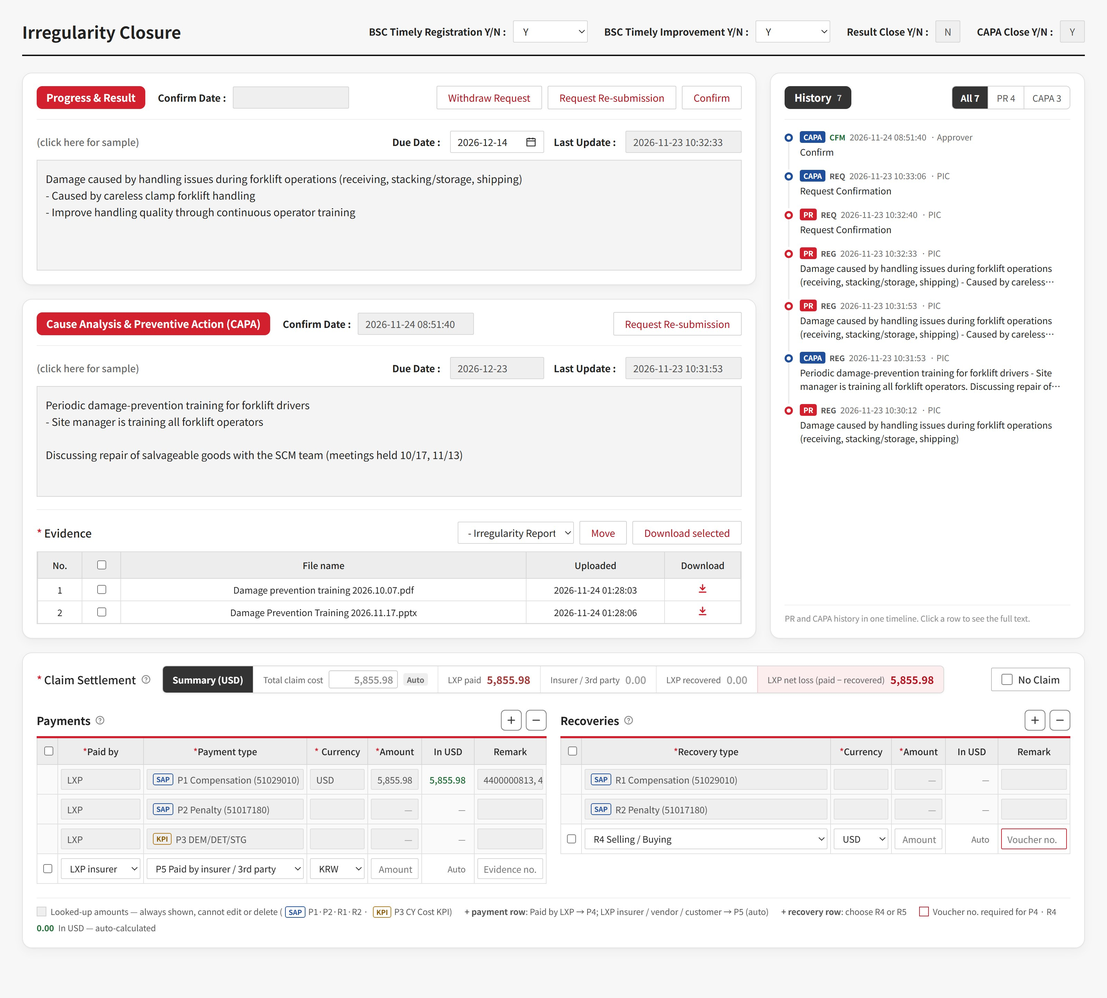
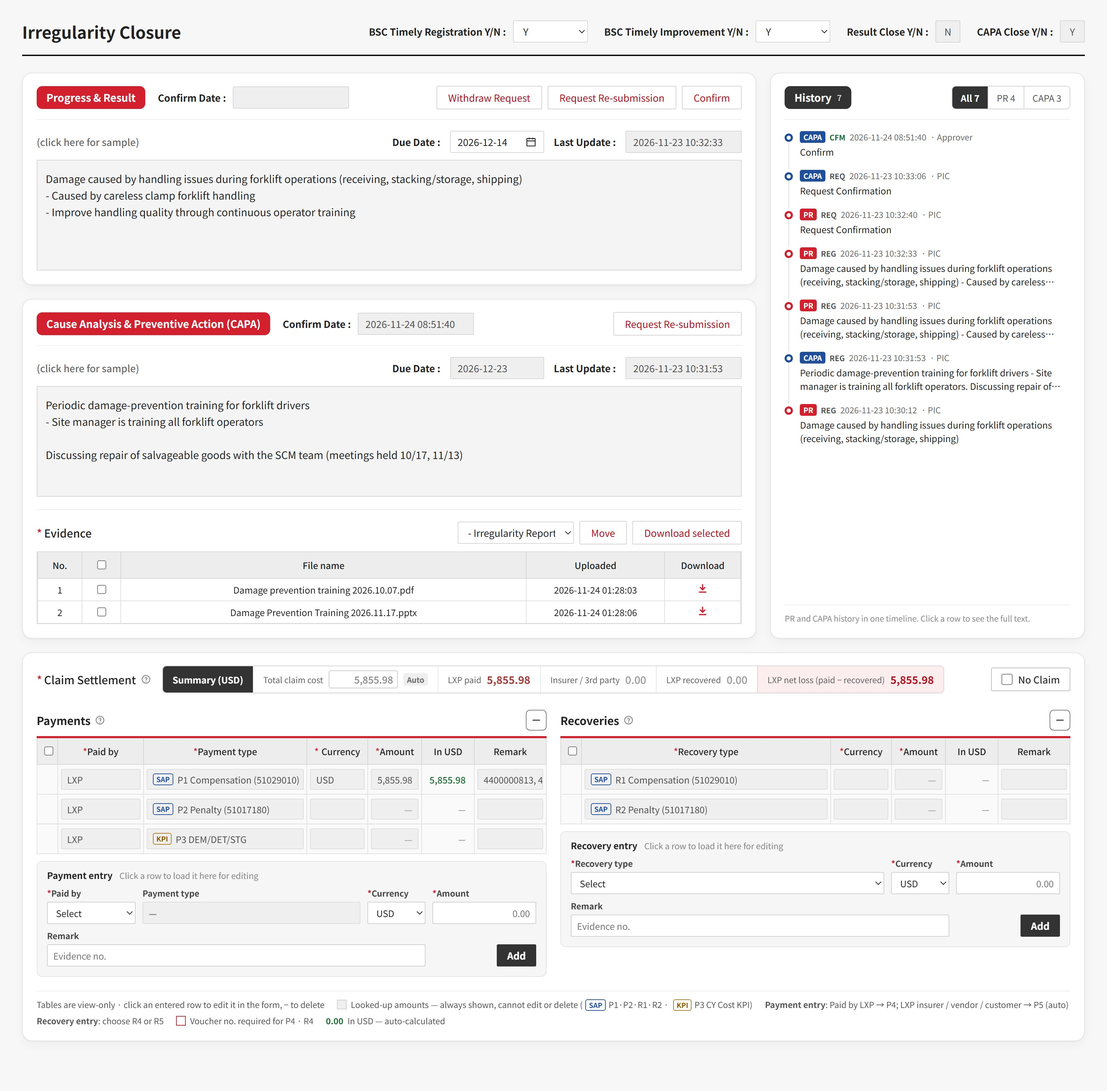
QMS sidebar mockup: pay/recovery entry forms under the grids

diff --git a/share/qms-claim-closure-sidebar.html b/share/qms-claim-closure-sidebar.html
@@ -124,13 +124,34 @@ a{color:#B3121F}a:hover{color:#7E0C16}
 .ti.open .tx{display:block}
 .ti[hidden]{display:none}
 .sidenote{margin:10px 0 0;padding-top:10px;border-top:1px solid #EEEEEE;font-size:11.5px;color:#8A8A8A}
+.cform{margin-top:10px;background:#F6F6F6;border:1px solid #E3E3E3;border-radius:8px;padding:10px 14px 14px}
+.cf-h{display:flex;flex-wrap:wrap;align-items:baseline;gap:4px 10px;font-size:13px;margin-bottom:8px;color:#222}
+.cf-note{font-size:12px;color:#8A8A8A}.cf-mode{font-size:12px;color:#1F4E9A;font-weight:700}
+.cf-g{display:grid;gap:8px 10px;align-items:end}
+.cf-g.pay{grid-template-columns:128px minmax(0,1fr) 84px 150px}
+.cf-g.rec{grid-template-columns:minmax(0,1fr) 84px 150px}
+.cf{display:flex;flex-direction:column;gap:4px;min-width:0;font-size:12px;font-weight:700;color:#444}
+.cf select,.cf input{height:32px;width:100%;border:1px solid #CFCFCF;border-radius:2px;background:#fff;font:inherit;font-size:13px;font-weight:400;color:#222;padding:0 8px;box-sizing:border-box}
+.cf input[data-f="amt"]{text-align:right;font-variant-numeric:tabular-nums}
+.cf .rocell{height:32px;font-weight:400}
+.cf input.need{border-color:#D3202F}
+.cf .bad{outline:2px solid #D3202F;outline-offset:-1px}
+.cf.wide{grid-column:1 / -2}
+.cf-b{display:flex;justify-content:flex-end;gap:6px}
+.cf-b .btn{height:32px;padding:0 14px}
+.btn.dark{background:#333;border-color:#333;color:#fff;font-weight:700}
+.cf-err{margin:8px 0 0;font-size:12px;color:#B3121F}
+.uc{height:30px;display:flex;align-items:center;padding:0 8px;font-size:13px;overflow:hidden;white-space:nowrap;text-overflow:ellipsis}
+.uc.num{justify-content:flex-end;font-variant-numeric:tabular-nums}
+.grid tr.ur{cursor:pointer}.grid tr.ur:hover td{background:#FFF7F7}.grid tr.ur.sel td{background:#FDECEE}
+@media (max-width:640px){.cf-g.pay,.cf-g.rec{grid-template-columns:minmax(0,1fr) minmax(0,1fr)}.cf.wide,.cf-b{grid-column:1 / -1}}
 @media (max-width:1100px){.sbl,.flow.r64 .sbl{grid-template-columns:minmax(0,1fr)}.tl{flex:none;height:auto;min-height:0;max-height:420px}}
 
 </style>
 </head>
 <body>
 <div class="lab-bar"><b>QMS 사고 비용 정산 설계안</b><span>배치 검토용 목업 · 이력 필터만 동작</span><a href="/share/qms-claim">데이터 설계</a><a href="/share/qms-claim-screens">입력 화면 시안</a><a href="/share/qms-claim-closure">Closure 화면 개선안</a><a href="/share/qms-claim-closure-layout">좌우 배치안</a><a href="/share/qms-claim-closure-sidebar" aria-current="page">이력 사이드바안</a><a href="/share/qms-claim-closure-options">배치 제안</a><a href="#en" lang="en">English</a></div>
-<div class="part"><h2 class="big">이력 사이드바안 — 배치 제안 C</h2><p><b>사이드바 레이아웃</b>: 왼쪽 본문은 PR → CAPA → 이행 증빙, 오른쪽 사이드바는 PR · CAPA 이력을 시간순으로 모은 통합 이력 (PR / CAPA 필터). 구역마다 둥근 상자로 나누고, 본문 : 이력 폭은 7 : 3 (6 : 4로 바꿔 볼 수 있음). 이력 상자는 본문 높이에 맞춰 늘어나고 넘치면 안에서 스크롤. 입력 칸과 이력이 나란히 있지 않으니 높이를 맞출 필요가 없고, 이행 증빙이 늘어도 구조가 깨지지 않습니다. <b>Claim Settlement는 전체 폭</b>으로 빼서 지불·회수 표를 한 줄에 놓고, 맨 아래(기본)와 맨 위 중 골라 볼 수 있습니다.</p>
+<div class="part"><h2 class="big">이력 사이드바안 — 배치 제안 C</h2><p><b>사이드바 레이아웃</b>: 왼쪽 본문은 PR → CAPA → 이행 증빙, 오른쪽 사이드바는 PR · CAPA 이력을 시간순으로 모은 통합 이력 (PR / CAPA 필터). 구역마다 둥근 상자로 나누고, 본문 : 이력 폭은 7 : 3 (6 : 4로 바꿔 볼 수 있음). 이력 상자는 본문 높이에 맞춰 늘어나고 넘치면 안에서 스크롤. 입력 칸과 이력이 나란히 있지 않으니 높이를 맞출 필요가 없고, 이행 증빙이 늘어도 구조가 깨지지 않습니다. <b>Claim Settlement는 전체 폭</b>으로 빼서 지불·회수 표를 한 줄에 놓고, 맨 아래(기본)와 맨 위 중 골라 볼 수 있습니다. <b>지불·회수 표는 조회 전용</b>이고, 표 아래 입력폼(기존 Actual Loss Cost처럼 칸 입력, USD 칸 없음)으로 추가합니다. 입력한 행을 누르면 폼으로 불러와 수정, − 로 삭제. 요약 금액은 예시 환율로 다시 계산됩니다.</p>
 <div class="pos" role="group" aria-label="본문과 이력 비율" data-cls="r64"><span>본문 : 이력</span><span class="segb"><button type="button" data-on="0" aria-pressed="true">7 : 3</button><button type="button" data-on="1" aria-pressed="false">6 : 4</button></span></div><div class="pos" role="group" aria-label="Claim Settlement 위치" data-cls="cs-top"><span>Claim Settlement 위치</span><span class="segb"><button type="button" data-pos="bottom" data-on="0" aria-pressed="true">맨 아래</button><button type="button" data-pos="top" data-on="1" aria-pressed="false">맨 위</button></span></div>
 <div class="dl"><a href="/share/files/qms-claim-closure-sidebar.jpg" download><svg width="14" height="14" viewBox="0 0 24 24" fill="none" stroke="currentColor" stroke-width="2" aria-hidden="true"><path d="M12 3v12m0 0-5-5m5 5 5-5M4 19h16"/></svg>JPG (맨 아래)</a><a href="/share/files/qms-claim-closure-sidebar-top.jpg" download><svg width="14" height="14" viewBox="0 0 24 24" fill="none" stroke="currentColor" stroke-width="2" aria-hidden="true"><path d="M12 3v12m0 0-5-5m5 5 5-5M4 19h16"/></svg>JPG (맨 위)</a><a href="/share/files/qms-claim-closure-sidebar-64.jpg" download><svg width="14" height="14" viewBox="0 0 24 24" fill="none" stroke="currentColor" stroke-width="2" aria-hidden="true"><path d="M12 3v12m0 0-5-5m5 5 5-5M4 19h16"/></svg>JPG (6 : 4)</a></div></div>
 <div style="box-sizing: border-box; width: 100%; max-width: 1600px; margin: 0 auto; padding: 28px 32px 56px; font-family: 'Noto Sans KR', 'Malgun Gothic', sans-serif; color: #222; background: #F7F7F7;">
@@ -235,12 +256,11 @@ SCM팀 통한 수리 가능 제품 양품화 협의 (10/17, 11/13 협의 진행)
 </div>
 <div style="display: flex; align-items: center; gap: 6px; flex: none;">
 
-<button class="ibtn" type="button" aria-label="지불 행 추가"><svg width="16" height="16" viewBox="0 0 24 24" fill="none" stroke="currentColor" stroke-width="2.4" stroke-linecap="round" aria-hidden="true"><path d="M12 5v14M5 12h14"></path></svg></button>
 <button class="ibtn" type="button" aria-label="선택한 지불 행 삭제"><svg width="16" height="16" viewBox="0 0 24 24" fill="none" stroke="currentColor" stroke-width="2.4" stroke-linecap="round" aria-hidden="true"><path d="M5 12h14"></path></svg></button>
 </div>
 </div>
 <div style="overflow-x: auto;">
-<table class="grid">
+<table class="grid" data-k="pay">
 <colgroup><col style="width: 30px;"><col style="width: 110px;"><col><col style="width: 80px;"><col style="width: 84px;"><col style="width: 84px;"><col style="width: 112px;"></colgroup>
 <thead><tr>
 <th><input type="checkbox" aria-label="지불 행 전체 선택"></th>
@@ -279,18 +299,10 @@ SCM팀 통한 수리 가능 제품 양품화 협의 (10/17, 11/13 협의 진행)
 <td><div class="auto">—</div></td>
 <td><div class="rocell"></div></td>
 </tr>
-<tr>
-<td style="text-align: center;"><input type="checkbox" aria-label="4행 선택"></td>
-<td><select class="cell" aria-label="지불주체"><option>당사 보험사</option><option>당사</option><option>협력사</option><option>고객사</option></select></td>
-<td><select class="cell" aria-label="지불방법"><option>P5 보험사·제3자 지불</option></select></td>
-<td><select class="cell" aria-label="Currency"><option>KRW</option><option>USD</option><option>EUR</option></select></td>
-<td><input class="cell" style="text-align: right;" placeholder="금액 입력" aria-label="금액"></td>
-<td><div class="auto">자동 계산</div></td>
-<td><input class="cell" placeholder="증빙번호 등" aria-label="Remark"></td>
-</tr>
 </tbody>
 </table>
 </div>
+<div class="cform" data-k="pay" role="group" aria-label="지불 입력"><div class="cf-h"><b>지불 입력</b><span class="cf-note">행을 누르면 여기로 불러와 수정</span><span class="cf-mode" aria-live="polite"></span></div><div class="cf-g pay"><label class="cf"><span><span class="req">*</span>지불주체</span><select data-f="party"><option value="">선택</option><option value="LXP">당사</option><option value="INS">당사 보험사</option><option value="VEN">협력사</option><option value="CUS">고객사</option></select></label><div class="cf"><span>지불방법</span><div class="rocell" data-f="type">—</div></div><label class="cf"><span><span class="req">*</span>Currency</span><select data-f="cur"><option>USD</option><option>KRW</option><option>EUR</option></select></label><label class="cf"><span><span class="req">*</span>금액</span><input data-f="amt" inputmode="decimal" placeholder="0.00"></label><label class="cf wide"><span>Remark</span><input data-f="remark" placeholder="증빙번호 등"></label><div class="cf-b"><button class="btn cf-cancel" type="button" hidden>취소</button><button class="btn dark cf-add" type="button">추가</button></div></div><p class="cf-err" role="alert" hidden></p></div>
 </div>
 
 <div style="min-width: 0;">
@@ -300,12 +312,11 @@ SCM팀 통한 수리 가능 제품 양품화 협의 (10/17, 11/13 협의 진행)
 <span class="qtip" tabindex="0" aria-label="회수내역 안내"><svg width="15" height="15" viewBox="0 0 24 24" fill="none" stroke="#8A8A8A" stroke-width="2" stroke-linecap="round" aria-hidden="true"><circle cx="12" cy="12" r="9"></circle><path d="M9.6 9.3a2.5 2.5 0 0 1 4.8 1c0 1.7-2.4 2.1-2.4 3.7"></path><path d="M12 17.2v.3"></path></svg><span class="tipbox" role="tooltip">R1·R2는 SAP에서 조회한 금액만 보여 줍니다. 그 밖의 회수는 + 로 추가합니다 (R4 · R5).</span></span>
 </div>
 <div style="display: flex; align-items: center; gap: 6px; flex: none;">
-<button class="ibtn" type="button" aria-label="회수 행 추가"><svg width="16" height="16" viewBox="0 0 24 24" fill="none" stroke="currentColor" stroke-width="2.4" stroke-linecap="round" aria-hidden="true"><path d="M12 5v14M5 12h14"></path></svg></button>
 <button class="ibtn" type="button" aria-label="선택한 회수 행 삭제"><svg width="16" height="16" viewBox="0 0 24 24" fill="none" stroke="currentColor" stroke-width="2.4" stroke-linecap="round" aria-hidden="true"><path d="M5 12h14"></path></svg></button>
 </div>
 </div>
 <div style="overflow-x: auto;">
-<table class="grid">
+<table class="grid" data-k="rec">
 <colgroup><col style="width: 30px;"><col><col style="width: 80px;"><col style="width: 84px;"><col style="width: 84px;"><col style="width: 112px;"></colgroup>
 <thead><tr>
 <th><input type="checkbox" aria-label="회수 행 전체 선택"></th>
@@ -332,23 +343,17 @@ SCM팀 통한 수리 가능 제품 양품화 협의 (10/17, 11/13 협의 진행)
 <td><div class="auto">—</div></td>
 <td><div class="rocell"></div></td>
 </tr>
-<tr>
-<td style="text-align: center;"><input type="checkbox" aria-label="3행 선택"></td>
-<td><select class="cell" aria-label="회수방법"><option>R4 Selling / Buying</option><option>R5 기타</option></select></td>
-<td><select class="cell" aria-label="Currency"><option>USD</option><option>KRW</option><option>EUR</option></select></td>
-<td><input class="cell" style="text-align: right;" placeholder="금액 입력" aria-label="금액"></td>
-<td><div class="auto">자동 계산</div></td>
-<td><input class="cell" style="border-color: #D3202F;" placeholder="전표번호 (필수)" aria-label="Remark 전표번호"></td>
-</tr>
 </tbody>
 </table>
 </div>
+<div class="cform" data-k="rec" role="group" aria-label="회수 입력"><div class="cf-h"><b>회수 입력</b><span class="cf-note">행을 누르면 여기로 불러와 수정</span><span class="cf-mode" aria-live="polite"></span></div><div class="cf-g rec"><label class="cf"><span><span class="req">*</span>회수방법</span><select data-f="type"><option value="">선택</option><option value="R4">R4 Selling / Buying</option><option value="R5">R5 기타</option></select></label><label class="cf"><span><span class="req">*</span>Currency</span><select data-f="cur"><option>USD</option><option>KRW</option><option>EUR</option></select></label><label class="cf"><span><span class="req">*</span>금액</span><input data-f="amt" inputmode="decimal" placeholder="0.00"></label><label class="cf wide"><span>Remark</span><input data-f="remark" placeholder="증빙번호 등"></label><div class="cf-b"><button class="btn cf-cancel" type="button" hidden>취소</button><button class="btn dark cf-add" type="button">추가</button></div></div><p class="cf-err" role="alert" hidden></p></div>
 </div>
 
 <div class="legend" style="grid-column: 1 / -1; margin-top: 0; padding-top: 10px; border-top: 1px solid #EEEEEE;">
+<span>표는 조회 전용 · 입력한 행을 누르면 입력폼에서 수정, − 로 삭제</span>
 <span><span class="sw" style="background: #EFEFEF;"></span>조회 금액 — 항상 표시, 수정·삭제 불가 (<span class="chip" style="margin: 0 4px;">SAP</span>P1·P2·R1·R2 · <span class="chip cy" style="margin: 0 4px;">KPI</span>P3 CY Cost KPI)</span>
-<span><b>+ 지불 행</b>: 지불주체가 당사면 P4, 당사 보험사·협력사·고객사면 P5 자동</span>
-<span><b>+ 회수 행</b>: R4 또는 R5 선택</span>
+<span><b>지불 입력</b>: 지불주체가 당사면 P4, 당사 보험사·협력사·고객사면 P5 자동</span>
+<span><b>회수 입력</b>: R4 또는 R5 선택</span>
 <span><span class="sw" style="background: #fff; border-color: #D3202F;"></span>P4·R4는 전표번호 필수</span>
 <span><span style="color: #1E6B34; font-weight: 700; margin-right: 6px;">0.00</span>USD 환산 — 자동 계산</span>
 </div>
@@ -459,12 +464,11 @@ Summary (USD)</div>
 </div>
 <div style="display: flex; align-items: center; gap: 6px; flex: none;">
 
-<button class="ibtn" type="button" aria-label="Add payment row"><svg width="16" height="16" viewBox="0 0 24 24" fill="none" stroke="currentColor" stroke-width="2.4" stroke-linecap="round" aria-hidden="true"><path d="M12 5v14M5 12h14"></path></svg></button>
 <button class="ibtn" type="button" aria-label="Delete selected payment rows"><svg width="16" height="16" viewBox="0 0 24 24" fill="none" stroke="currentColor" stroke-width="2.4" stroke-linecap="round" aria-hidden="true"><path d="M5 12h14"></path></svg></button>
 </div>
 </div>
 <div style="overflow-x: auto;">
-<table class="grid">
+<table class="grid" data-k="pay">
 <colgroup><col style="width: 30px;"><col style="width: 124px;"><col><col style="width: 88px;"><col style="width: 78px;"><col style="width: 76px;"><col style="width: 104px;"></colgroup>
 <thead><tr>
 <th><input type="checkbox" aria-label="Select all payment rows"></th>
@@ -503,18 +507,10 @@ Summary (USD)</div>
 <td><div class="auto">—</div></td>
 <td><div class="rocell"></div></td>
 </tr>
-<tr>
-<td style="text-align: center;"><input type="checkbox" aria-label="Select row 4"></td>
-<td><select class="cell" aria-label="Paid by"><option>LXP insurer</option><option>LXP</option><option>Vendor</option><option>Customer</option></select></td>
-<td><select class="cell" aria-label="Payment type"><option>P5 Paid by insurer / 3rd party</option></select></td>
-<td><select class="cell" aria-label="Currency"><option>KRW</option><option>USD</option><option>EUR</option></select></td>
-<td><input class="cell" style="text-align: right;" placeholder="Amount" aria-label="Amount"></td>
-<td><div class="auto">Auto</div></td>
-<td><input class="cell" placeholder="Evidence no." aria-label="Remark"></td>
-</tr>
 </tbody>
 </table>
 </div>
+<div class="cform" data-k="pay" role="group" aria-label="Payment entry"><div class="cf-h"><b>Payment entry</b><span class="cf-note">Click a row to load it here for editing</span><span class="cf-mode" aria-live="polite"></span></div><div class="cf-g pay"><label class="cf"><span><span class="req">*</span>Paid by</span><select data-f="party"><option value="">Select</option><option value="LXP">LXP</option><option value="INS">LXP insurer</option><option value="VEN">Vendor</option><option value="CUS">Customer</option></select></label><div class="cf"><span>Payment type</span><div class="rocell" data-f="type">—</div></div><label class="cf"><span><span class="req">*</span>Currency</span><select data-f="cur"><option>USD</option><option>KRW</option><option>EUR</option></select></label><label class="cf"><span><span class="req">*</span>Amount</span><input data-f="amt" inputmode="decimal" placeholder="0.00"></label><label class="cf wide"><span>Remark</span><input data-f="remark" placeholder="Evidence no."></label><div class="cf-b"><button class="btn cf-cancel" type="button" hidden>Cancel</button><button class="btn dark cf-add" type="button">Add</button></div></div><p class="cf-err" role="alert" hidden></p></div>
 </div>
 
 <div style="min-width: 0;">
@@ -524,12 +520,11 @@ Summary (USD)</div>
 <span class="qtip" tabindex="0" aria-label="About recoveries"><svg width="15" height="15" viewBox="0 0 24 24" fill="none" stroke="#8A8A8A" stroke-width="2" stroke-linecap="round" aria-hidden="true"><circle cx="12" cy="12" r="9"></circle><path d="M9.6 9.3a2.5 2.5 0 0 1 4.8 1c0 1.7-2.4 2.1-2.4 3.7"></path><path d="M12 17.2v.3"></path></svg><span class="tipbox" role="tooltip">R1–R2 show SAP amounts only. Add other recoveries with + (R4 · R5).</span></span>
 </div>
 <div style="display: flex; align-items: center; gap: 6px; flex: none;">
-<button class="ibtn" type="button" aria-label="Add recovery row"><svg width="16" height="16" viewBox="0 0 24 24" fill="none" stroke="currentColor" stroke-width="2.4" stroke-linecap="round" aria-hidden="true"><path d="M12 5v14M5 12h14"></path></svg></button>
 <button class="ibtn" type="button" aria-label="Delete selected recovery rows"><svg width="16" height="16" viewBox="0 0 24 24" fill="none" stroke="currentColor" stroke-width="2.4" stroke-linecap="round" aria-hidden="true"><path d="M5 12h14"></path></svg></button>
 </div>
 </div>
 <div style="overflow-x: auto;">
-<table class="grid">
+<table class="grid" data-k="rec">
 <colgroup><col style="width: 30px;"><col><col style="width: 88px;"><col style="width: 78px;"><col style="width: 76px;"><col style="width: 104px;"></colgroup>
 <thead><tr>
 <th><input type="checkbox" aria-label="Select all recovery rows"></th>
@@ -556,23 +551,17 @@ Summary (USD)</div>
 <td><div class="auto">—</div></td>
 <td><div class="rocell"></div></td>
 </tr>
-<tr>
-<td style="text-align: center;"><input type="checkbox" aria-label="Select row 3"></td>
-<td><select class="cell" aria-label="Recovery type"><option>R4 Selling / Buying</option><option>R5 Other</option></select></td>
-<td><select class="cell" aria-label="Currency"><option>USD</option><option>KRW</option><option>EUR</option></select></td>
-<td><input class="cell" style="text-align: right;" placeholder="Amount" aria-label="Amount"></td>
-<td><div class="auto">Auto</div></td>
-<td><input class="cell" style="border-color: #D3202F;" placeholder="Voucher no." aria-label="Remark voucher number"></td>
-</tr>
 </tbody>
 </table>
 </div>
+<div class="cform" data-k="rec" role="group" aria-label="Recovery entry"><div class="cf-h"><b>Recovery entry</b><span class="cf-note">Click a row to load it here for editing</span><span class="cf-mode" aria-live="polite"></span></div><div class="cf-g rec"><label class="cf"><span><span class="req">*</span>Recovery type</span><select data-f="type"><option value="">Select</option><option value="R4">R4 Selling / Buying</option><option value="R5">R5 Other</option></select></label><label class="cf"><span><span class="req">*</span>Currency</span><select data-f="cur"><option>USD</option><option>KRW</option><option>EUR</option></select></label><label class="cf"><span><span class="req">*</span>Amount</span><input data-f="amt" inputmode="decimal" placeholder="0.00"></label><label class="cf wide"><span>Remark</span><input data-f="remark" placeholder="Evidence no."></label><div class="cf-b"><button class="btn cf-cancel" type="button" hidden>Cancel</button><button class="btn dark cf-add" type="button">Add</button></div></div><p class="cf-err" role="alert" hidden></p></div>
 </div>
 
 <div class="legend" style="grid-column: 1 / -1; margin-top: 0; padding-top: 10px; border-top: 1px solid #EEEEEE;">
+<span>Tables are view-only · click an entered row to edit it in the form, − to delete</span>
 <span><span class="sw" style="background: #EFEFEF;"></span>Looked-up amounts — always shown, cannot edit or delete (<span class="chip" style="margin: 0 4px;">SAP</span>P1·P2·R1·R2 · <span class="chip cy" style="margin: 0 4px;">KPI</span>P3 CY Cost KPI)</span>
-<span><b>+ payment row</b>: Paid by LXP → P4; LXP insurer / vendor / customer → P5 (auto)</span>
-<span><b>+ recovery row</b>: choose R4 or R5</span>
+<span><b>Payment entry</b>: Paid by LXP → P4; LXP insurer / vendor / customer → P5 (auto)</span>
+<span><b>Recovery entry</b>: choose R4 or R5</span>
 <span><span class="sw" style="background: #fff; border-color: #D3202F;"></span>Voucher no. required for P4 · R4</span>
 <span><span style="color: #1E6B34; font-weight: 700; margin-right: 6px;">0.00</span>In USD — auto-calculated</span>
 </div>
@@ -593,6 +582,102 @@ Summary (USD)</div>
   if (document.fonts && document.fonts.ready) document.fonts.ready.then(fit);
   if (document.fonts && document.fonts.addEventListener) document.fonts.addEventListener('loadingdone', fit);
   window.addEventListener('load', fit);
+  var FX = { USD: 1, KRW: 1 / 1400, EUR: 1.08 };
+  var TX = {
+    ko: { parties: { LXP: '당사', INS: '당사 보험사', VEN: '협력사', CUS: '고객사' },
+          types: { P4: 'P4 Selling / Buying', P5: 'P5 보험사·제3자 지불', R4: 'R4 Selling / Buying', R5: 'R5 기타' },
+          add: '추가', update: '수정', editing: function (n) { return n + '번 행 수정 중'; }, sel: '행 선택',
+          err: '빨간 칸을 채우세요.', voucher: 'P4 · R4는 Remark에 전표번호가 필요합니다.', ph: '증빙번호 등', vph: '전표번호 (필수)' },
+    en: { parties: { LXP: 'LXP', INS: 'LXP insurer', VEN: 'Vendor', CUS: 'Customer' },
+          types: { P4: 'P4 Selling / Buying', P5: 'P5 Paid by insurer / 3rd party', R4: 'R4 Selling / Buying', R5: 'R5 Other' },
+          add: 'Add', update: 'Update', editing: function (n) { return 'Editing row ' + n; }, sel: 'Select row',
+          err: 'Fill in the red fields.', voucher: 'P4 · R4 need a voucher no. in Remark.', ph: 'Evidence no.', vph: 'Voucher no. (required)' }
+  };
+  function fmt(n) { return Number(n).toLocaleString('en-US', { minimumFractionDigits: 2, maximumFractionDigits: 2 }); }
+  function num(v) { var n = parseFloat(String(v).replace(/,/g, '')); return isFinite(n) && n > 0 ? n : null; }
+  function esc(v) { return String(v).replace(/[&<>"]/g, function (c) { return { '&': '&amp;', '<': '&lt;', '>': '&gt;', '"': '&quot;' }[c]; }); }
+  document.querySelectorAll('.csw').forEach(function (cs) {
+    var L = TX[cs.closest('[lang="en"]') ? 'en' : 'ko'];
+    function recalc() {
+      var paid = 0, ins = 0, rec = 0;
+      cs.querySelectorAll('table[data-k] tbody tr').forEach(function (tr) {
+        var k = tr.closest('table').dataset.k, u = 0, party = 'LXP';
+        if (tr.classList.contains('ur')) { u = +tr.dataset.usd; party = tr.dataset.party || 'LXP'; }
+        else { var e = tr.querySelector('.usd'); u = e ? (num(e.textContent) || 0) : 0; }
+        if (k === 'rec') rec += u; else if (party === 'LXP') paid += u; else ins += u;
+      });
+      function put(sel, v) { var e = cs.querySelector(sel); if (e) { e.textContent = fmt(v); e.classList.toggle('zero', !v); } }
+      put('.sum .v.pay', paid); put('.sum .v.neu', ins); put('.sum .v.rec', rec); put('.sum.loss .v', paid - rec);
+      var t = cs.querySelector('.totin'); if (t && t.classList.contains('isauto')) t.value = fmt(paid + ins);
+    }
+    cs.querySelectorAll('.cform').forEach(function (f) {
+      var k = f.dataset.k, table = cs.querySelector('table[data-k="' + k + '"]'), tb = table.tBodies[0];
+      function q(n) { return f.querySelector('[data-f="' + n + '"]'); }
+      var party = q('party'), type = q('type'), cur = q('cur'), amt = q('amt'), remark = q('remark');
+      var add = f.querySelector('.cf-add'), cancel = f.querySelector('.cf-cancel'), err = f.querySelector('.cf-err'), mode = f.querySelector('.cf-mode');
+      var editing = null;
+      function typeVal() { return party ? (party.value ? (party.value === 'LXP' ? 'P4' : 'P5') : '') : type.value; }
+      function needV() { var t = typeVal(); return t === 'P4' || t === 'R4'; }
+      function sync() {
+        if (party) type.textContent = typeVal() ? L.types[typeVal()] : '—';
+        remark.placeholder = needV() ? L.vph : L.ph; remark.classList.toggle('need', needV());
+      }
+      function clear() { f.querySelectorAll('.bad').forEach(function (e) { e.classList.remove('bad'); }); err.hidden = true; }
+      function reset() {
+        if (editing) editing.classList.remove('sel');
+        editing = null;
+        if (party) party.value = ''; else type.value = '';
+        cur.value = 'USD'; amt.value = ''; remark.value = '';
+        add.textContent = L.add; cancel.hidden = true; mode.textContent = ''; clear(); sync();
+      }
+      function cells(r) {
+        var h = '<td style="text-align: center;"><input type="checkbox" aria-label="' + L.sel + '"></td>';
+        if (party) h += '<td><div class="uc">' + esc(L.parties[r.party]) + '</div></td>';
+        return h + '<td><div class="uc">' + esc(L.types[r.type]) + '</div></td><td><div class="uc">' + r.cur + '</div></td>' +
+          '<td><div class="uc num">' + fmt(r.amt) + '</div></td><td><div class="usd">' + fmt(r.usd) + '</div></td>' +
+          '<td><div class="uc" title="' + esc(r.remark) + '">' + esc(r.remark) + '</div></td>';
+      }
+      f.addEventListener('change', function (e) { e.target.classList.remove('bad'); sync(); });
+      f.addEventListener('input', function (e) { e.target.classList.remove('bad'); });
+      cancel.addEventListener('click', reset);
+      add.addEventListener('click', function () {
+        clear();
+        var t = typeVal(), a = num(amt.value), bad = [], vmiss = needV() && !remark.value.trim();
+        if (!t) bad.push(party || type);
+        if (!a) bad.push(amt);
+        if (vmiss) bad.push(remark);
+        if (bad.length) {
+          bad.forEach(function (e) { e.classList.add('bad'); });
+          err.textContent = L.err + (vmiss ? ' ' + L.voucher : ''); err.hidden = false; bad[0].focus(); return;
+        }
+        var r = { party: party ? party.value : '', type: t, cur: cur.value, amt: a, usd: a * FX[cur.value], remark: remark.value.trim() };
+        var tr = editing || document.createElement('tr');
+        tr.className = 'ur'; tr.innerHTML = cells(r);
+        ['party', 'type', 'cur', 'amt', 'usd', 'remark'].forEach(function (x) { tr.dataset[x] = r[x]; });
+        if (!editing) tb.appendChild(tr);
+        reset(); recalc();
+      });
+      tb.addEventListener('click', function (e) {
+        var tr = e.target.closest('tr.ur'); if (!tr || e.target.closest('input')) return;
+        reset(); editing = tr; tr.classList.add('sel');
+        if (party) party.value = tr.dataset.party; else type.value = tr.dataset.type;
+        cur.value = tr.dataset.cur; amt.value = fmt(+tr.dataset.amt); remark.value = tr.dataset.remark;
+        add.textContent = L.update; cancel.hidden = false; mode.textContent = L.editing([].indexOf.call(tb.rows, tr) + 1); sync();
+      });
+      var del = f.parentElement.querySelector('.ibtn');
+      if (del) del.addEventListener('click', function () {
+        tb.querySelectorAll('tr.ur').forEach(function (tr) {
+          if (tr.querySelector('input[type="checkbox"]').checked) { if (tr === editing) reset(); tr.remove(); }
+        });
+        recalc();
+      });
+      var all = table.tHead && table.tHead.querySelector('input[type="checkbox"]');
+      if (all) all.addEventListener('change', function () {
+        tb.querySelectorAll('tr.ur input[type="checkbox"]').forEach(function (c) { c.checked = all.checked; });
+      });
+      sync();
+    });
+  });
   document.querySelectorAll('.pos').forEach(function (g) {
     g.addEventListener('click', function (e) {
       var b = e.target.closest('button'); if (!b) return;
